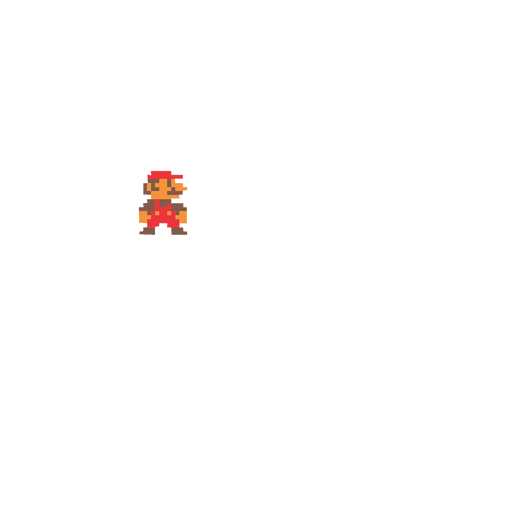
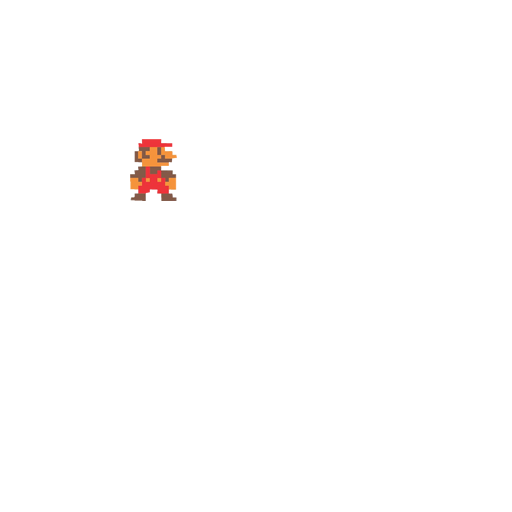
Safe

Changed region(s): [[0.25, 0.25, 0.375, 0.4688]]

diff --git a/Maze/src/com/Matt/Maze/Maze.java b/Maze/src/com/Matt/Maze/Maze.java
@@ -40,22 +40,22 @@ public class Maze implements ApplicationListener {
 		
 		if((Gdx.input.isKeyPressed(Keys.DPAD_LEFT)) )
 		{
-			x += -10f;
+			x += -3f;
 		}
 		
 		if(Gdx.input.isKeyPressed(Keys.DPAD_RIGHT))
 		{
-			x += 10f;
+			x += 3f;
 		}
 		
 		if(Gdx.input.isKeyPressed(Keys.DPAD_UP))
 		{
-			y += 10f;
+			y += 3f;
 		}
 	
 		if(Gdx.input.isKeyPressed(Keys.DPAD_DOWN)) 
 		{
-			y += -10f;
+			y += -3f;
 		}
 	
 		if(x >= 614)
